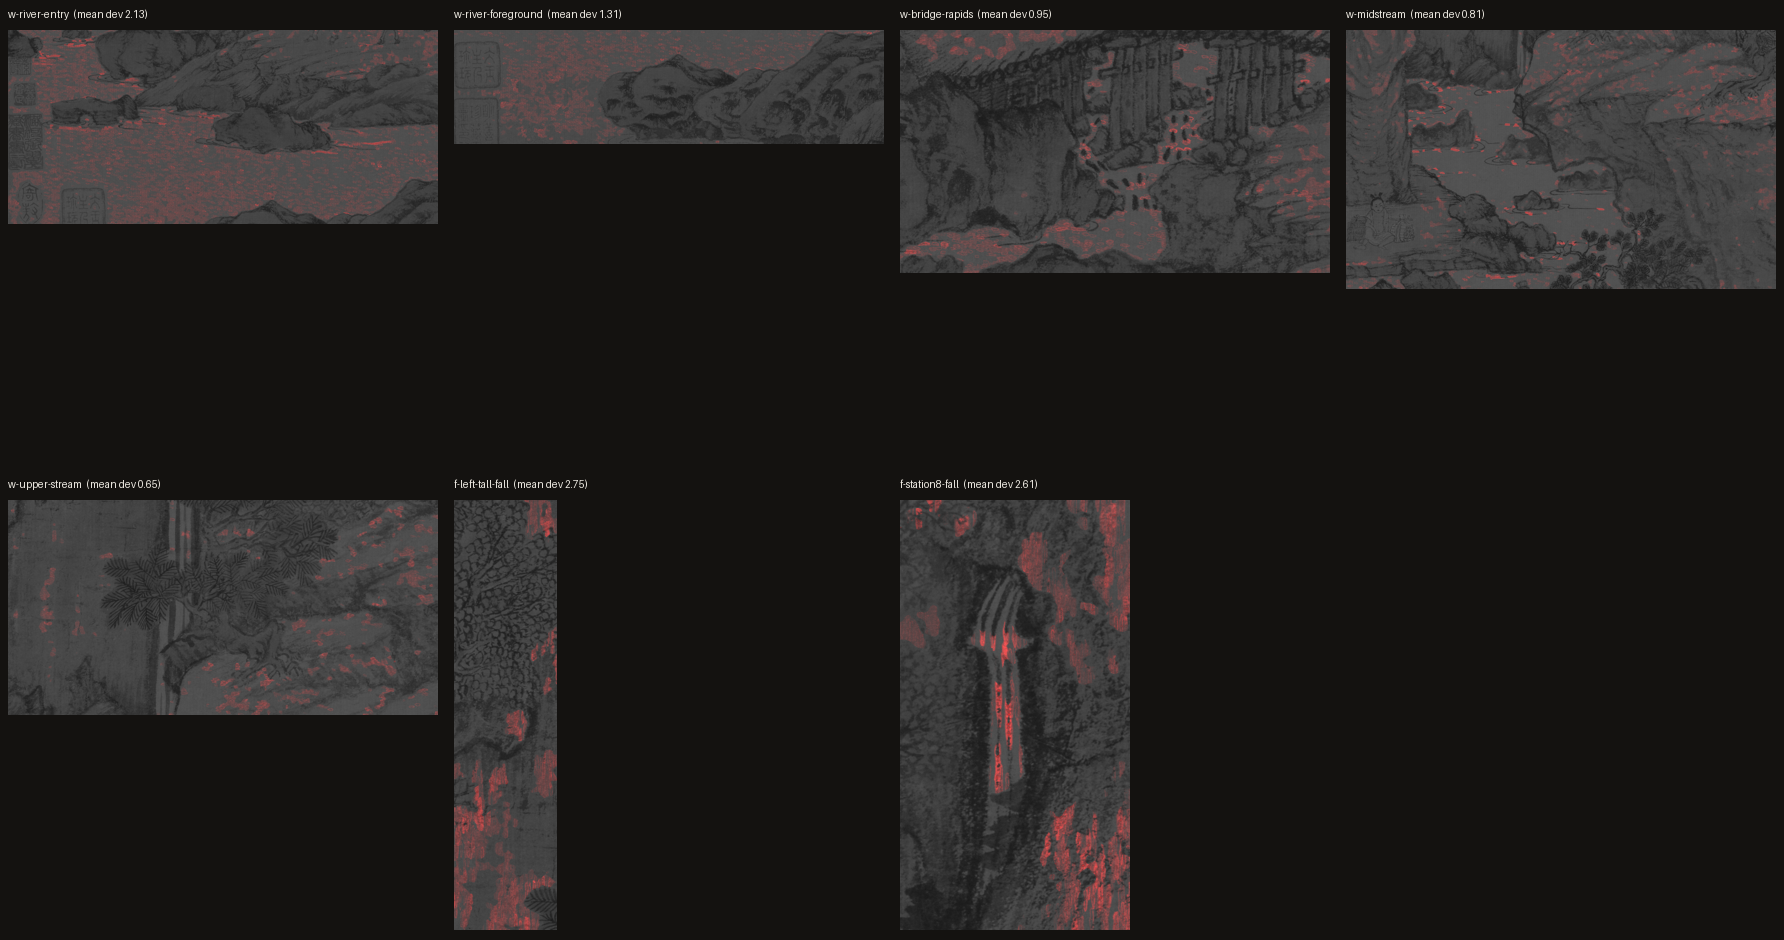
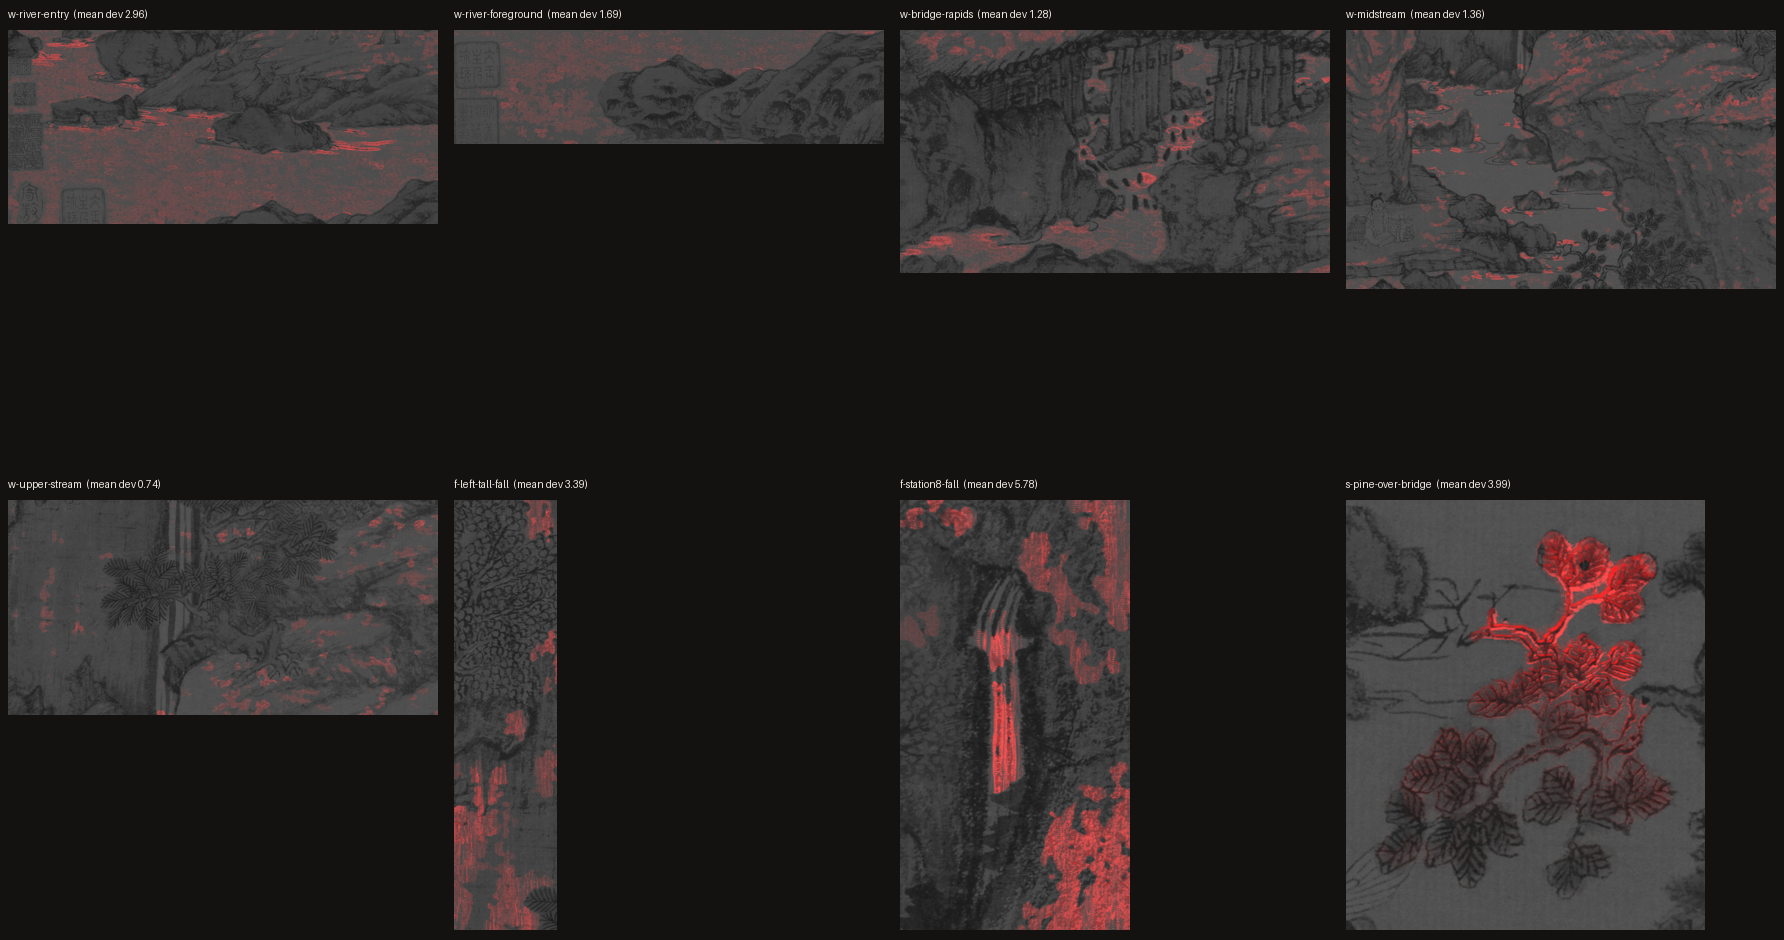
k-corrected native cycles: x2.34 on all px params restores proven amplitude; pine gust cycle at true box
All 7 water regions re-cycled at wobble 9.4/drift 28/lam 585/max-thick 7
(720-space winners x k): peak 28.3px native = the proven 1.67%-of-frame
current; max-thick 3 had been dropping native water lines as masses
(midstream ink capture 6->16.7%). s-pine-over-bridge box corrected from
the proven Z1 plane (old box was bare cliff); native mask = plane alpha
x2.34; gust cycle peak 10.7px = proven plate amplitude scaled. Ensemble
probe path authored: rapids -> Ge -> pine, 16s.

diff --git a/jobs/wang-meng/living/build-native-water.py b/jobs/wang-meng/living/build-native-water.py
@@ -96,11 +96,20 @@ elif a.stage == "cycle":
     cls = R["classes"][r["class"]]
     d = HERE / "native" / r["id"]
     angle = a.angle if a.angle is not None else cls.get("angle", 8)
+    # MOTION PARAMS ARE SHOT-SCALE QUANTITIES (law, 2026-08-19). The class
+    # values are 720-space pixels — the space the water was PROVEN in
+    # (living-both-final: drift 12/720 = 1.7% of frame). At native master
+    # resolution every px-dimensioned param is multiplied by k=2.34, or
+    # the current shrinks to a third of its approved amplitude and reads
+    # as an error (FLOAT-MIDSTREAM regression, Ryan's verdict).
+    K = 2.34
     cmd = ["python3", str(ROOT / "tools/animate-strokes.py"),
            "--image", str(d / "plate.png"), "--masks", str(d / "mask"),
            "--field", cls["field"], "--mode", cls["mode"], "--keep", cls["keep"],
-           "--on", str(cls["on"]), "--wobble", str(cls["wobble"]),
-           "--drift", str(cls["drift"]), "--wavelength", str(cls["wavelength"]),
+           "--on", str(cls["on"]), "--wobble", str(cls["wobble"] * K),
+           "--drift", str(cls["drift"] * K),
+           "--wavelength", str(cls["wavelength"] * K),
+           "--scale", str(90 * K), "--max-thick", str(3.0 * K),
            "--angle", str(angle), "--frames", "72",
            "--out", str(d / "preview.mp4"), "--out-frames", str(d / "cycle")]
     out = subprocess.run(cmd, check=True, cwd=ROOT, capture_output=True, text=True)
